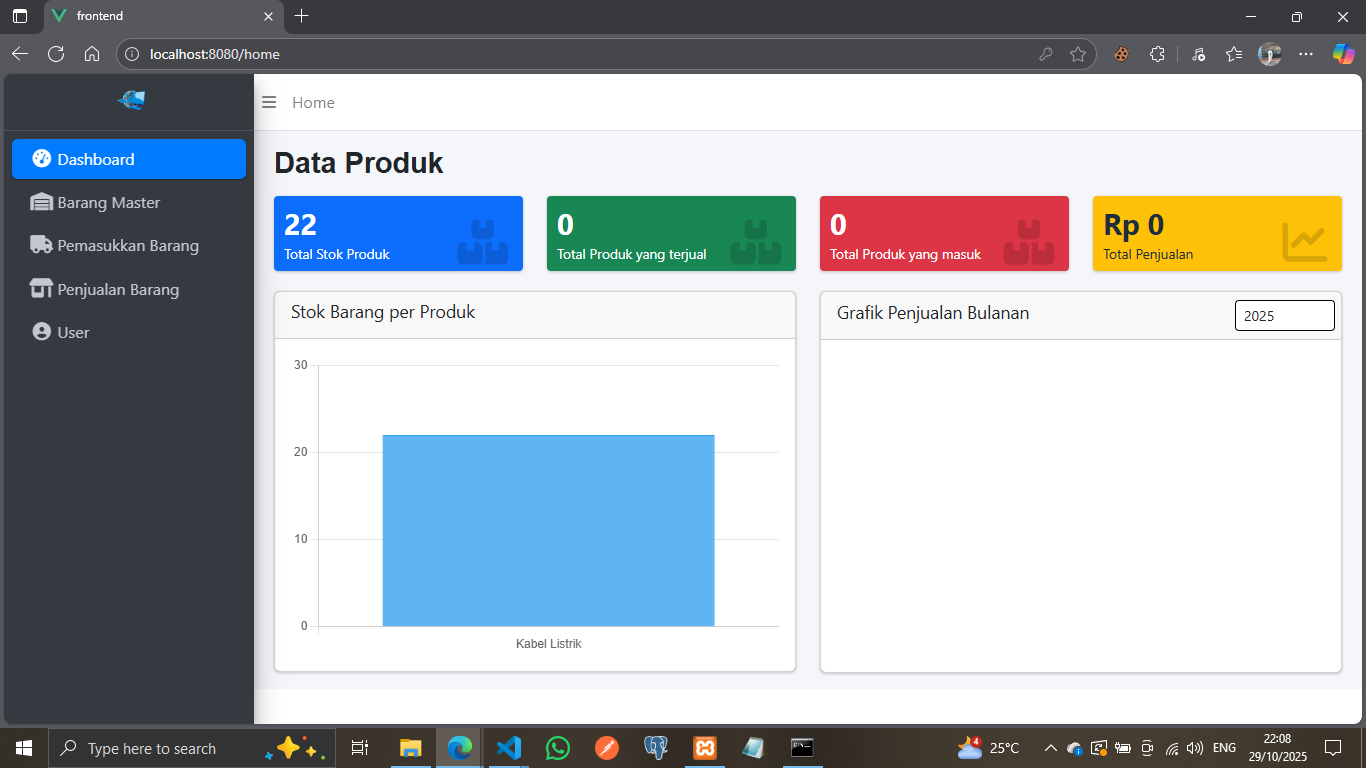
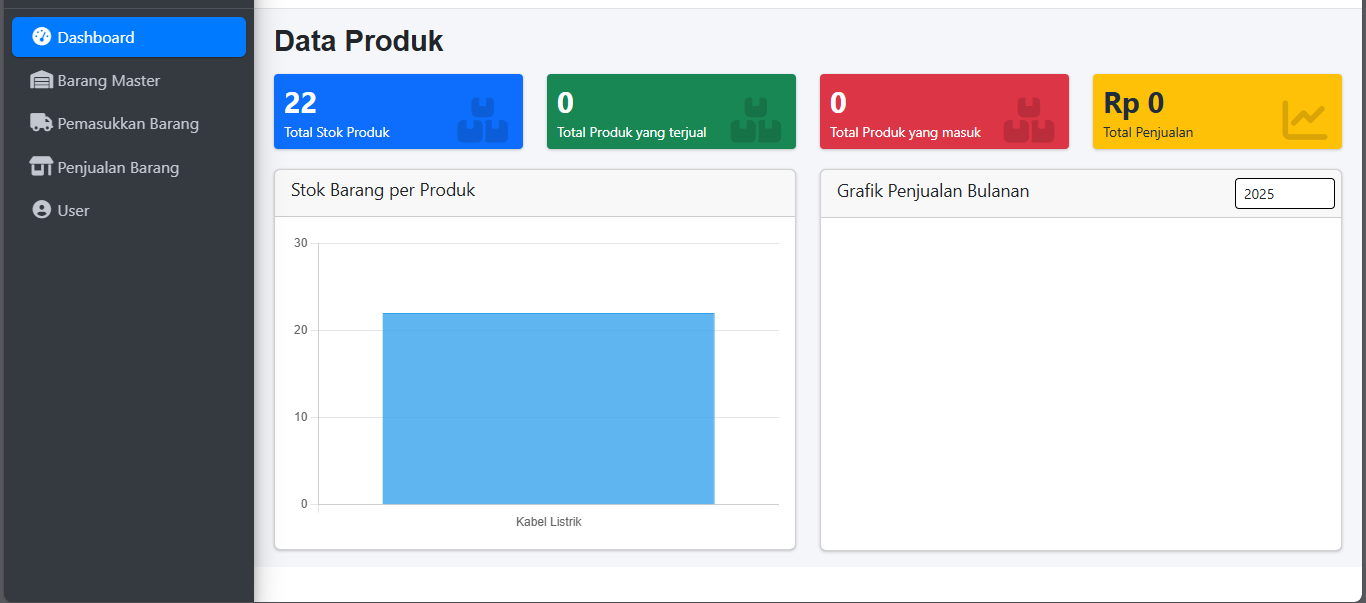
Update skill, work, n project

diff --git a/src/constants/index.ts b/src/constants/index.ts
@@ -13,12 +13,14 @@ import {
   laravel,
   express,
   nocturnity,
+  galaktek,
   expresscomp,
   school,
   mutu,
   gundar,
   sqii,
   reactjs,
+  inung,
   msql,
   git,
   figma,
@@ -28,6 +30,7 @@ import {
   oilcoco,
   sau,
   arabic,
+  gin, 
   easysoft,
   mysql,
   spring,
@@ -112,6 +115,10 @@ const technologies: TTechnology[] = [
     icon: spring,
   },
   {
+    name: "Gin",
+    icon: gin,
+  },
+  {
     name: "Figma",
     icon: figma,
   },
@@ -138,7 +145,7 @@ const experiences: TExperience[] = [
   {
     title: "Founder",
     companyName: "Galaksi Teknologi Nusantara",
-    icon: "",
+    icon: galaktek,
     iconBg: "#E6DEDD",
     date: "Sep 2025 - Now",
     points: [
@@ -244,14 +251,28 @@ const testimonials: TTestimonial[] = [
 const projects: TProject[] = [
   
    {
-    name: "Website of Marketing Agency Company Profile",
+    name: "Website of Wildlife and Nature Conservation Management",
     description:
-      "Develop the website backend and frontend. And, connect the API of Marketing Agency Company Profile Website with Node.js and React.js",
+      "Develop the website backend and frontend. And, connect the API of Website of Wildlife and Nature Conservation Management with Gin and React.js",
     tags: [
       {
-        name: "nodejs",
-        color: "black-text-gradient",
+        name: "react",
+        color: "blue-text-gradient",
       },
+      {
+        name: "gin",
+        color: "yellow-text-gradient",
+      },
+    ],
+    image: inung,
+    sourceCodeLink: "https://github.com/silverbladeidn/inung-fe",
+    websiteLink: ""
+  },
+  {
+    name: "Website of Marketing Agency Company Profile",
+    description:
+      "Develop the website frontend of Marketing Agency Company Profile Website with and React.js",
+    tags: [
       {
         name: "react",
         color: "blue-text-gradient",

diff --git a/src/assets/index.ts b/src/assets/index.ts
@@ -24,6 +24,7 @@ import vue from "./tech/vue.png";
 import laravel from "./tech/laravel.png";
 import threejs from "./tech/threejs.svg";
 import express from "./tech/express.png";
+import gin from "./tech/gin.png";
 import mysql from "./tech/mysql.svg";
 import msql from "./tech/msql.png";
 import mobirise from "./tech/mobirise.png";
@@ -40,6 +41,7 @@ import tesla from "./company/tesla.png";
 import easysoft from "./company/easysoft.png";
 import mutu from "./company/mutu-new-logo.png";
 import sau from "./company/sauuu.jpg";
+import galaktek from "./company/Logo galaktek.png";
 
 import carrent from "./carrent.png";
 import jobit from "./jobit.png";
@@ -49,9 +51,11 @@ import fph8 from "./fph8.png";
 import nsi from "./nsi.png";
 import arabic from "./arabic.png"
 import school from "./school.png"
-import nocturnity from "./nocturnity.png"
+import nocturnity from "./Screenshot (617).png"
 import expresscomp from "./expresscomp.png"
 import oilcoco from "./1726544813001.jpeg"
+import inung from "./Screenshot (615).png"
+
 
 export {
   logo,
@@ -63,13 +67,16 @@ export {
   mutu,
   fph8,
   muajeje,
+  inung,
   nsi,
   expresscomp,  
   easysoft,
   sqii,
   school,
+  galaktek,
   postgresql,
   arabic,
+  gin,
   gundar,
   creator,
   vue,
